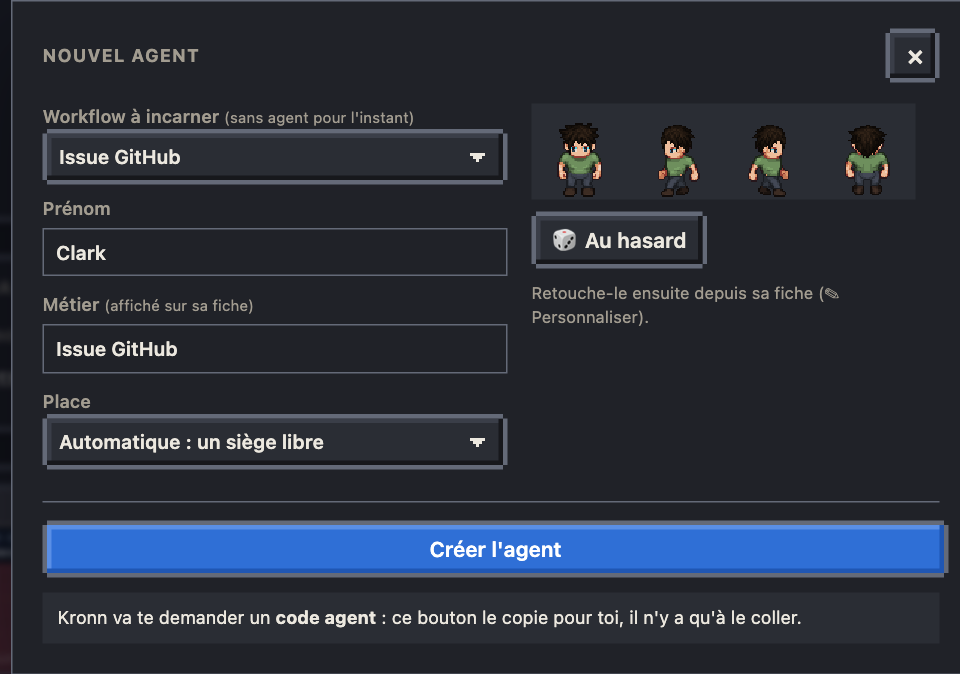
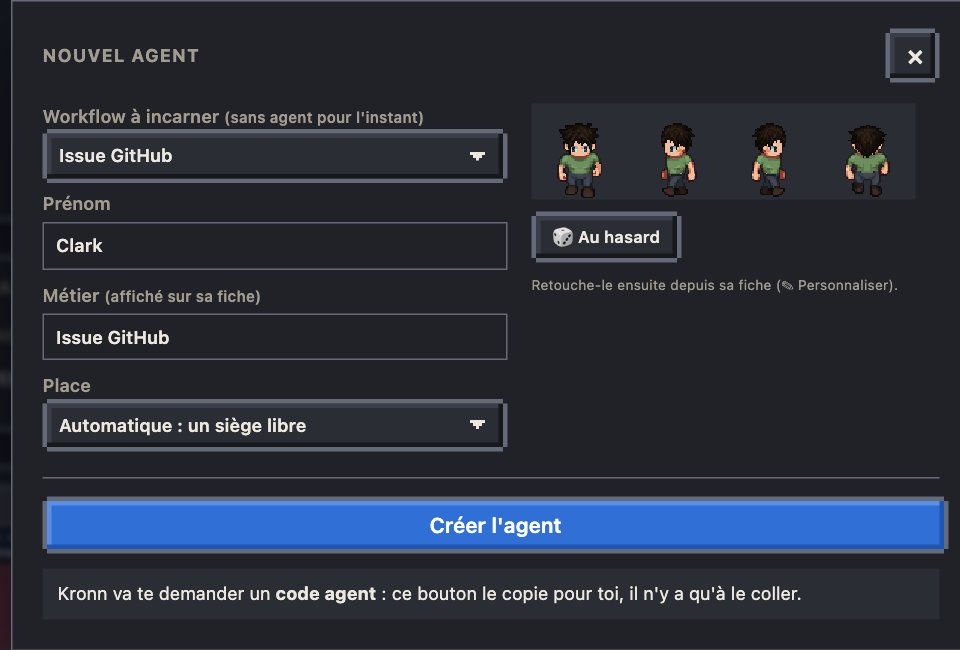
feat(page): renommer ou retirer un agent ajouté depuis sa fiche
Bloc « Agent ajouté » de sa fiche : ✎ Renommer (prénom, métier ; workflows, siège et
apparence repris du dataset) ou ✕ Retirer du bureau, par le même code AGENT1.
La page de démo repassait au-dessus de 900 Ko (KT-28) : étapes « code copié, colle,
Lancer » partagées (codeHint, éditeur d'avatar compris), Échap / Tab et retour du focus
de « Nouvel agent » repris de la fenêtre des pages du boss (focusBack), CSS resserrée.
#64, étape 5.

diff --git a/page/src/66-newagent.js b/page/src/66-newagent.js
@@ -37,10 +37,10 @@ function freeSeatIds(){
   const used=new Set(CAST.filter(c=>c.seat).map(c=>c.seat.join(',')));
   return SEATS.filter(t=>t.id&&!used.has(t.x+','+t.y)).map(t=>t.id);
 }
+const agentCodeOf=req=>'AGENT1:'+btoa(unescape(encodeURIComponent(JSON.stringify(req))));
 function agentCode(){
   const w=NA.wf;
-  return 'AGENT1:'+btoa(unescape(encodeURIComponent(JSON.stringify({op:'add',k:agentKey(NA.name,w),n:NA.name,r:NA.role,wf:[String(w).slice(0,8)],
-    seat:NA.seat||null,sp:null,l:NA.look,at:Date.now()}))));
+  return agentCodeOf({op:'add',k:agentKey(NA.name,w),n:NA.name,r:NA.role,wf:[String(w).slice(0,8)],seat:NA.seat||null,sp:null,l:NA.look,at:Date.now()});
 }
 let NA_BACK=null, NA_INERT=[];
 function openNewAgent(){
@@ -60,7 +60,7 @@ function openNewAgent(){
       <label>Place<select class="na-seat"><option value="">Automatique : un siège libre</option>${freeSeatIds().map(id=>`<option value="${esc(id)}">Siège ${esc(id)}</option>`).join('')}</select></label>
     </div><div class="na-av"><canvas id="naprev" width="256" height="64" aria-label="Aperçu de l'avatar"></canvas>
       <button type="button" class="na-dice">🎲 Au hasard</button><small>Retouche-le ensuite depuis sa fiche (✎ Personnaliser).</small></div></div>
-    <div class="na-save" data-kronn-action-slot-host><button type="button" class="on na-create" data-kronn-action="bureau-agent">Créer l'agent</button>
+    <div class="teamsave" data-kronn-action-slot-host><button type="button" class="on na-create" data-kronn-action="bureau-agent">Créer l'agent</button>
       <div class="hint na-hint">Kronn va te demander un <b>code agent</b> : ce bouton le copie pour toi, il n'y a qu'à le coller.</div></div>`
     :`<p class="note">Tous tes workflows ont déjà un agent.</p>`);
   NA_INERT=[...document.body.children].filter(e=>!e.inert&&e.tagName!=='SCRIPT');
@@ -75,9 +75,7 @@ function openNewAgent(){
     wf.onchange=()=>{const w=list.find(x=>String(x.wf)===wf.value);NA.wf=wf.value;if(w&&(!role.value||list.some(x=>clean(x.name)===role.value)))role.value=clean(w.name);sync();};
     $('.na-seat').onchange=e=>{NA.seat=e.target.value;};
     $('.na-dice').onclick=()=>{NA.look=randomLook();};
-    create.onclick=()=>{const code=agentCode(), ok=copyText(code);NA.sent=true;
-      hint.innerHTML=`<ol class="steps3"><li class="done">${ok?'Code copié ✓':'Copie ce code :'}</li><li>Clique dans le champ <b>Code agent</b> ci-dessous et colle (<kbd>⌘V</kbd>)</li><li>Clique <b>Lancer</b> : ${esc(NA.name)} arrive d'ici une minute</li></ol><input type="text" readonly aria-label="Code agent" style="${ok?'display:none':''}">`;
-      const inp=hint.querySelector('input');inp.value=code;inp.onclick=()=>inp.select();};
+    create.onclick=()=>{NA.sent=true;codeHint(hint,agentCode(),'Code agent',esc(NA.name)+" arrive d'ici une minute");};
     new MutationObserver(()=>{const st=create.getAttribute('data-kronn-action-state');if(!NA||!NA.sent)return;
       if(st==='succeeded')hint.innerHTML=`<b style="color:var(--ok)">✓ ${esc(NA.name)} est embauché.</b> Il sort de la salle Serveurs au prochain rafraîchissement de la page.`;
       else if(st==='failed')hint.innerHTML='<b style="color:var(--err)">Code refusé.</b> Vérifie que tu as collé le code en entier (il commence par AGENT1:), puis relance.';
@@ -90,20 +88,8 @@ function closeNewAgent(restore=true){
   document.querySelectorAll('.na-backdrop,.na-modal').forEach(e=>e.remove());
   NA_INERT.forEach(e=>{e.inert=false;});NA_INERT=[];NA=null;
   if(!restore||!was)return;
-  const back=NA_BACK;NA_BACK=null;
-  if(back&&back!==document.body&&back.isConnected&&back.focus){back.focus();if(document.activeElement===back)return;}
-  const plan=document.getElementById('cv');
-  if(plan){if(!plan.hasAttribute('tabindex'))plan.tabIndex=-1;plan.focus();}
+  const back=NA_BACK;NA_BACK=null;focusBack(back); // Échap et Tab : bossPagesKey (classe bp-modal)
 }
-addEventListener('keydown',e=>{
-  const box=document.querySelector('.na-modal');if(!box)return;
-  if(e.key==='Escape'){closeNewAgent();return;}
-  if(e.key!=='Tab')return;
-  const f=[...box.querySelectorAll('button:not([disabled]),input,select,a[href]')];if(!f.length)return;
-  const a=f[0], z=f[f.length-1], cur=document.activeElement, inside=box.contains(cur);
-  if(e.shiftKey&&(cur===a||!inside)){e.preventDefault();z.focus();}
-  else if(!e.shiftKey&&(cur===z||!inside)){e.preventDefault();a.focus();}
-});
 // aperçu animé de l'avatar tiré, comme celui de l'éditeur (appelé à chaque image par la boucle)
 function drawNewAgentPreview(now){
   if(!NA||!NA.look)return;const cv2=document.getElementById('naprev');if(!cv2)return;
@@ -137,3 +123,30 @@ const RACK_POP={get y(){const r=newAgentRack();return r?r.y+r.h+40:-1;},draw:now
     if(t>0&&t<1){ctx.save();ctx.globalAlpha=.7*(1-t);for(let j=0;j<12;j++)if(j/12<t)R(ctx,fx-10,fy-6-j*4,20,2,'#78e6ff');ctx.restore();} // l'hologramme se forme
   }
 }};
+// ---------- renommer ou retirer un agent ajouté, depuis sa fiche (#64) ----------
+// même workflow « Le Bureau · agents » : le code reprend son entrée du dataset (workflows, siège, apparence) ; seuls le
+// prénom et le métier changent, ou op « remove » pour le retirer du bureau
+function renameCode(c,name,role){
+  const a=EXTRA_RAW[c.key]||{};
+  return agentCodeOf({op:'add',k:c.key,n:name,r:role,wf:(a.wf||c.wf).map(w=>String(w).slice(0,8)),seat:typeof a.seat==='string'?a.seat:null,
+    sp:a.sprite||null,l:a.look||null,at:+a.at||Date.now()});
+}
+const removeCode=c=>agentCodeOf({op:'remove',k:c.key});
+function addedAgentBlock(side,c){
+  if(!c.added||!ACTIONS.agent||TV)return;
+  const box=foldSection(side,'added','🛠 Agent ajouté',null,false);
+  const host=document.createElement('div');host.className='na-admin';host.setAttribute('data-kronn-action-slot-host','');
+  host.innerHTML=`<div class="rl-s">Ajouté depuis une baie de la salle Serveurs. Renomme-le ou retire-le du bureau : un code à coller dans la carte Kronn.</div>
+    <div class="na-form"><label>Prénom<input class="na-rn" type="text" maxlength="24"></label><label>Métier<input class="na-rr" type="text" maxlength="60"></label></div>`;
+  const $=s=>host.querySelector(s), name=$('.na-rn'), role=$('.na-rr');
+  name.value=c.name;role.value=c.role||'';
+  const ren=document.createElement('button');ren.textContent='✎ Renommer';ren.setAttribute('data-kronn-action','bureau-agent');
+  const del=document.createElement('button');del.textContent='✕ Retirer du bureau';del.setAttribute('data-kronn-action','bureau-agent');
+  const hint=document.createElement('div');hint.className='hint';hint.textContent='Kronn va te demander un code agent : chaque bouton le copie pour toi.';
+  const sync=()=>{ren.disabled=!name.value.trim()||(name.value.trim()===c.name&&role.value.trim()===(c.role||''));};
+  name.oninput=sync;role.oninput=sync;sync();
+  ren.onclick=()=>codeHint(hint,renameCode(c,name.value.trim(),role.value.trim()),'Code agent');
+  del.onclick=()=>codeHint(hint,removeCode(c),'Code agent');
+  const acts=document.createElement('div');acts.className='na-acts';acts.append(ren,del);
+  host.append(acts,hint);kronnModal(host,ren,'Renommer '+c.name);kronnModal(host,del,'Retirer '+c.name);box.appendChild(host);
+}

diff --git a/page/src/65-editor.js b/page/src/65-editor.js
@@ -68,6 +68,10 @@ function editorEntry(){
   return {k:EDIT.k,n:name||null,l:EDIT.look&&!same?EDIT.look:null,at:Date.now()};
 }
 function keepLocal(e){AV_LOCAL[e.k]=e.n||e.l?{name:e.n||undefined,look:e.l||undefined,at:e.at}:{reset:true,at:e.at};saveLocal();}
+// étapes des cartes Kronn qui demandent un code (avatar, agent) : copié pour toi, à coller, puis Lancer
+function codeHint(hint,code,label,last){const ok=copyText(code);
+  hint.innerHTML=`<ol class="steps3"><li class="done">${ok?'Code copié ✓':'Copie ce code :'}</li><li>Clique dans le champ <b>${label}</b> ci-dessous et colle (<kbd>⌘V</kbd>)</li><li>Clique <b>Lancer</b>${last?' : '+last:''}</li></ol><input type="text" readonly aria-label="${label}" style="${ok?'display:none':''}">`;
+  const inp=hint.querySelector('input');inp.value=code;inp.onclick=()=>inp.select();}
 const avatarCode=e=>'BUREAU1:'+btoa(unescape(encodeURIComponent(JSON.stringify(e))));
 function copyText(t){
   let ok=false;
@@ -248,9 +252,7 @@ function renderEditor(side,c){
   save.setAttribute('data-kronn-action','bureau-avatar');
   const hint=document.createElement('div');hint.className='hint';hint.id='avhint';
   hint.innerHTML="Kronn va te demander un <b>code avatar</b> : ce bouton le copie pour toi, il n'y a qu'à le coller.";
-  save.onclick=()=>{const e=editorEntry();keepLocal(e);const code=avatarCode(e);const ok=copyText(code);EDIT.hint=e.at;
-    hint.innerHTML=`<ol class="steps3"><li class="done">${ok?'Code copié ✓':'Copie ce code :'}</li><li>Clique dans le champ <b>Code avatar</b> ci-dessous et colle (<kbd>⌘V</kbd>)</li><li>Clique <b>Lancer</b> : toute l'équipe le verra d'ici quelques secondes</li></ol><input type="text" readonly aria-label="Code avatar" style="${ok?'display:none':''}">`;
-    const inp=hint.querySelector('input');inp.value=code;inp.onclick=()=>inp.select();};
+  save.onclick=()=>{const e=editorEntry();keepLocal(e);EDIT.hint=e.at;codeHint(hint,avatarCode(e),'Code avatar',"toute l'équipe le verra d'ici quelques secondes");};
   team.append(save,hint);kronnModal(team,save,'Enregistrer l’avatar pour l’équipe');
   // Kronn marque le bouton (data-kronn-action-state) quand le run avance : on suit pour confirmer sans attendre la relecture des données
   new MutationObserver(()=>{const st=save.getAttribute('data-kronn-action-state');if(!EDIT||!EDIT.hint)return;

diff --git a/tests/newagent.test.js b/tests/newagent.test.js
@@ -44,3 +44,21 @@ test('apparence au hasard : uniquement des calques et couleurs que la validation
     for (const [k, v] of Object.entries(l)) { if (/color|shirt/.test(k) ? !/^#[0-9a-fA-F]{6}$/.test(v) : !/^[a-z0-9_/]{1,40}$/.test(v)) return k + '=' + v; } } return true; })()`);
   assert.equal(ok, true);
 });
+
+test('agent ajouté : sa fiche propose de le renommer (entrée du dataset reprise) ou de le retirer', () => {
+  const {run} = load({globals: {btoa, atob}});
+  const a = {name: 'Clark', role: 'Issue GitHub', wf: ['e5ce6732'], seat: 'I5.R3', sprite: 'p_clark', look: {shirt: '#123456'}, at: 5};
+  run(`applyAgents({a_clark_e5ce: ${JSON.stringify(a)}})`);
+  const dec = code => JSON.parse(run(`decodeURIComponent(escape(atob(${JSON.stringify(code)}.slice(7))))`));
+  assert.deepEqual(dec(run(`renameCode(byKey.a_clark_e5ce, 'Clark Green', 'Issues GitHub')`)),
+    {op: 'add', k: 'a_clark_e5ce', n: 'Clark Green', r: 'Issues GitHub', wf: ['e5ce6732'], seat: 'I5.R3', sp: 'p_clark', l: {shirt: '#123456'}, at: 5});
+  assert.deepEqual(dec(run('removeCode(byKey.a_clark_e5ce)')), {op: 'remove', k: 'a_clark_e5ce'});
+  run(`document.createElement = t => ({tag: t, attrs: {}, kids: [], style: {}, setAttribute(k, v) { this.attrs[k] = v; }, getAttribute(k) { return this.attrs[k]; },
+    appendChild(x) { this.kids.push(x); }, append(...x) { this.kids.push(...x); }, prepend() {}, addEventListener() {},
+    querySelector() { return {value: ''}; }});
+    var box = null; var _f = foldSection; foldSection = (...a) => (box = {kids: [], appendChild(x) { this.kids.push(x); }});`);
+  const actions = key => JSON.parse(run(`JSON.stringify((() => { box = null; addedAgentBlock({}, byKey[${JSON.stringify(key)}]);
+    return box ? box.kids[0].kids[0].kids.filter(k => k.tag === 'button').map(b => [b.textContent, b.attrs['data-kronn-action']]) : null; })())`));
+  assert.deepEqual(actions('a_clark_e5ce'), [['✎ Renommer', 'bureau-agent'], ['✕ Retirer du bureau', 'bureau-agent']]);
+  assert.equal(actions(run('AGENTS[0].key')), null, 'agent de la config : pas de bloc');
+});

diff --git a/page/src/styles.css b/page/src/styles.css
@@ -197,15 +197,13 @@ body.km-on .side:has(.kmodal){z-index:50} /* le panneau est sticky (plan d'empil
 /* « Nouvel agent » : le « + » d'une baie de la salle Serveurs (66-newagent.js, #64) */
 .na-modal{width:min(640px,calc(100vw - 32px));left:max(16px,calc(50% - 320px))}
 .na-grid{display:grid;grid-template-columns:1fr 272px;gap:16px}
-.na-form label{display:block;font-size:12px;font-weight:600;color:var(--muted);margin-bottom:10px}
-.na-form label small{font-weight:400}
-.na-form select,.na-form input{display:block;width:100%;margin-top:4px;padding:6px 8px;font:inherit;font-size:13px;color:var(--ink);background:var(--panel);border:1px solid var(--line);border-radius:8px}
-.na-av{display:flex;flex-direction:column;gap:8px;align-items:flex-start}
-.na-av canvas{width:256px;height:64px;image-rendering:pixelated;background:var(--chip);border-radius:8px}
-.na-av small{font-size:11px;color:var(--muted)}
-.na-save{display:block;margin-top:14px;padding-top:12px;border-top:1px solid var(--line)}
-.na-save>button{width:100%}
+.na-form label{display:block;font-size:12px;font-weight:600;color:var(--muted);margin-bottom:8px}
+.na-form select,.na-form input{display:block;width:100%;margin-top:4px;padding:6px 8px;font:inherit;color:var(--ink);background:var(--panel);border:1px solid var(--line);border-radius:8px}
+.na-av{display:grid;gap:8px;justify-items:start;align-content:start;font-size:11px;color:var(--muted)}
+.na-av canvas{width:256px;image-rendering:pixelated;background:var(--chip);border-radius:8px}
 @media (max-width:640px){.na-grid{grid-template-columns:1fr}}
+.na-admin{padding:10px 12px;border:1px solid var(--line);border-radius:10px;margin-bottom:8px}
+.na-acts{display:flex;gap:6px;margin-top:4px}
 .bp-card b{font-size:14px;line-height:1.25}
 .bp-card small{display:flex;justify-content:space-between;color:var(--muted);font-size:12px}
 .bp-card small span{color:var(--accent);font-weight:700}

diff --git a/page/src/47-bosspages.js b/page/src/47-bosspages.js
@@ -50,7 +50,7 @@ function bossPagesHtml(){
 // revient à l'élément qui l'avait ; ouverte d'un clic sur le canvas (non focalisable), il n'y en a pas : le focus revient
 // alors au plan (tabindex -1, hors de l'ordre de tabulation), là où était l'écran cliqué, et Tab reprend aux boutons du rejeu
 let BP_BACK=null, BP_INERT=[];
-const bpFocusables=box=>[...box.querySelectorAll('a[href],button')];
+const bpFocusables=box=>[...box.querySelectorAll('a[href],button:not([disabled]),input,select')];
 function openBossPages(){
   const back=BP_BACK||document.activeElement; // réouverture : on garde l'élément d'avant la première ouverture
   closeBossPages(false); if(!bossPagesOn())return;
@@ -70,14 +70,17 @@ function closeBossPages(restore=true){
   BP_INERT.forEach(e=>{e.inert=false;});BP_INERT=[];
   if(!restore)return;
   const back=BP_BACK;BP_BACK=null;
-  if(!was)return;
+  if(was)focusBack(back);
+}
+// retour du focus à la fermeture d'une fenêtre (pages du boss, nouvel agent) : l'élément d'avant, sinon le plan
+function focusBack(back){
   if(back&&back!==document.body&&back.isConnected&&back.focus){back.focus();if(document.activeElement===back)return;}
   const plan=document.getElementById('cv');
   if(plan){if(!plan.hasAttribute('tabindex'))plan.tabIndex=-1;plan.focus();}
 }
 function bossPagesKey(e){
   const box=document.querySelector('.bp-modal');if(!box)return;
-  if(e.key==='Escape'){closeBossPages();return;}
+  if(e.key==='Escape'){(/\bna-modal\b/.test(box.className)?closeNewAgent:closeBossPages)();return;} // 66-newagent.js : même fenêtre
   if(e.key!=='Tab')return;
   const f=bpFocusables(box);if(!f.length)return;
   const a=f[0], z=f[f.length-1], cur=document.activeElement, inside=box.contains(cur);

diff --git a/page/src/31-agents.js b/page/src/31-agents.js
@@ -2,7 +2,7 @@
 // Dataset `agents` (workflow « Le Bureau · agents », script agent_save.py) : {agents: {a_…: {name, role, wf, seat (numéro de siège ou null),
 // sprite?, look?, at}}}. Ils rejoignent le casting après ceux de la config (AGENTS, CAST), prennent une place comme
 // eux (placeCast) et se comportent en agents ordinaires : fiche, relance, question, fiche de paie par préfixe de workflow.
-let EXTRA_KEY='';
+let EXTRA_KEY='', EXTRA_RAW={}; // EXTRA_RAW : entrées du dataset, reprises telles quelles pour renommer (66-newagent.js)
 function readAgents(src){
   try{
     if(!src||!src.datasets)return null;
@@ -30,6 +30,7 @@ function extraAgents(map){
 // remplace les agents ajoutés du casting par ceux du dataset ; false si rien n'a changé (pas de rafraîchissement)
 function applyAgents(map){
   const defs=extraAgents(map), key=JSON.stringify(defs);
+  EXTRA_RAW=map||{};
   if(key===EXTRA_KEY)return false;
   EXTRA_KEY=key;
   for(const list of [AGENTS,CAST])for(let i=list.length-1;i>=0;i--)if(list[i].added)list.splice(i,1);

diff --git a/tests/bosspages.test.js b/tests/bosspages.test.js
@@ -60,7 +60,7 @@ function fakeDom() {
     contains(x) { for (; x; x = x.parent) if (x === this) return true; return false; }
     focus() { if (this.focusable && this.isConnected) doc.activeElement = this; }
     matches(sel) {
-      return sel.split(',').some(s => { s = s.trim().replace('[href]', ''); return s[0] === '.' ? this.className.split(' ').includes(s.slice(1)) : this.tagName === s.toUpperCase(); });
+      return sel.split(',').some(s => { if (/:not\(\[disabled\]\)/.test(s) && this.disabled) return false; s = s.trim().replace(/\[href\]|:not\(\[disabled\]\)/g, ''); return s[0] === '.' ? this.className.split(' ').includes(s.slice(1)) : this.tagName === s.toUpperCase(); });
     }
     querySelectorAll(sel) { const out = []; const walk = e => { for (const k of e.kids) { if (k.matches(sel)) out.push(k); walk(k); } }; walk(this); return out; }
     querySelector(sel) { return this.querySelectorAll(sel)[0] || null; }

diff --git a/page/src/50-panel.js b/page/src/50-panel.js
@@ -248,6 +248,7 @@ function drawSide(side){
   runBlock(side,c);
   askBlock(side,c);
   relaunchBlock(side,c);
+  addedAgentBlock(side,c); // 66-newagent.js : agent ajouté depuis une baie
   payBlock(side,c);
   const wfs=[...new Set(c.runs.map(r=>clean(r.wf_name)))];
   if(wfs.length){

diff --git a/tools/shots.py b/tools/shots.py
@@ -106,6 +106,9 @@ SHOTS = {
     # arrivée d'un agent ajouté (#64) : la baie s'allume, les pixels tombent, l'hologramme se forme (capturé à mi-chemin)
     "arrivee-agent": (1400, 1000, AT(11) + "applyAgents({a_clark:{name:'Clark',role:'Issue GitHub',wf:['e5ce6732'],sprite:'p_clark',at:T-30e3}});"
                       "needTeleport=false;const c=byKey.a_clark;c.present=false;c.pos=null;tick(0);setMode('pause');c.popAt=performance.now()+1750;", "#cv", 1.5),
+    # fiche d'un agent ajouté depuis une baie (#64) : arrivé ce matin, « Agent ajouté » déplié (renommer, retirer)
+    "fiche-agent-ajoute": (1400, 1200, AT(11) + "applyAgents({a_clark_e5ce:{name:'Clark',role:'Issue GitHub',wf:['e5ce6732'],sprite:'p_clark',at:T-2*3600e3}});"
+                           "COLLAPSED['fiche:added']=false;select('a_clark_e5ce');", "#side"),
     "fiche-agent": (1400, 1400, AT(11) + "select((chars.find(c=>!c.person&&!c.visitor&&c.runs.length)||{}).key);", "#side"),
     # Gabe, « Ses tickets » et « Ses autres PR ouvertes » dépliés : composant, points, âge (DM-7761 bloqué en review), PR de chaque ticket, un bug
     "fiche-collegue": (1400, 2000, AT(11) + "COLLAPSED['fiche:tickets']=false;COLLAPSED['fiche:prs']=false;select('p_gabe');", "#side"),

diff --git a/guide/fonctionnalites/07-fiches.md b/guide/fonctionnalites/07-fiches.md
@@ -10,6 +10,7 @@ Clic sur un personnage (plan, panneau ou « Qui fait quoi ») : sa fiche s'ouvre
 - **Relancer** : relance le workflow, sans variables (refusé s'il tourne déjà). Absent pour un workflow qui attend une saisie obligatoire, comme Réestimer : celui-là se lance depuis la fiche du ticket, qui envoie la clé et te demande le reste.
 - **▶ Lancer…** (si l'agent a une clé `launch` dans `agents`) : lance son workflow quand il demande une saisie. La carte Kronn s'ouvre avec les variables à remplir (une intention, un dépôt…) ; l'agent se met au travail sur le plan dès que le run démarre. Exemple : `{"key": "clark", "name": "Clark", "wf": ["e5ce6732"], "launch": {"wf": "<id complet du workflow>", "vars": ["intention", "repo", "milestone"]}}`.
 - **Lui poser une question** : un agent IA lit ses runs et répond en 5 phrases.
+- **Agent ajouté** (agent créé depuis une baie de la salle Serveurs, voir [Le plan](01-plan.md#ajouter-un-agent)) : ✎ Renommer (prénom, métier) ou ✕ Retirer du bureau ; un code à coller dans la carte Kronn, comme à sa création.
 - **Décider** une validation : trois boutons directs, ✅ Approuver, ⛔ Rejeter, ✏ Changements… ; la carte Kronn qui s'ouvre prend un commentaire (obligatoire pour des changements), puis Lancer.
 
 **Boss** (ton personnage) : ce qui attend ta décision, chaque validation avec ses trois boutons (Approuver, Rejeter, Changements) : celles de tes agents, et celles des workflows qui n'ont pas de personnage sur le plan (« Le Bureau · plan », qui propose un nouveau plan pour toute l'équipe). Puis chaque question qu'une discussion Kronn t'a posée et qui attend encore (14 jours, comme le canard) : celles des visiteurs, du canard et des agents interrogés depuis la page. Tant qu'une validation ou une question t'attend, ton personnage porte la bulle ✋ avec leur nombre, et le récap de la journée le rappelle.
